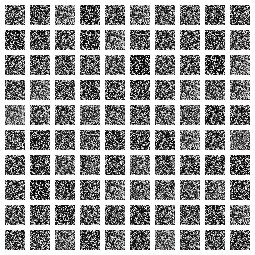
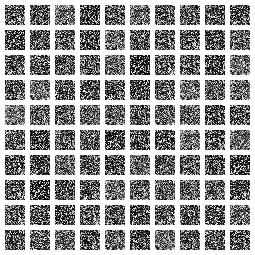
finalised autoencoder experiments

diff --git a/Assignment_2/ae.py b/Assignment_2/ae.py
@@ -175,13 +175,13 @@ def main():
     mnist = input_data.read_data_sets("MNIST_data/", one_hot=True)
     trX, teX = mnist.train.images, mnist.test.images
 
-    config = 2  # use 2 for sparsity constraint with momentum optimizer
+    config = 1  # use 2 for sparsity constraint with momentum optimizer
 
     model = StackedAutoEncoder(dims=[900, 625, 400], config=config)
     model.fit(trX)
     corrupted, clean = model.transform(teX)
-    save_images(np.reshape(clean[:100], [100, 28, 28]), [10, 10], 'clean_%d.png' % (config))
-    save_images(np.reshape(corrupted[:100], [100, 28, 28]), [10, 10], 'corrupted_%d.png' % (config))
+    save_images(np.reshape(clean[:100], [100, 28, 28]), [10, 10], 'clean_%d.png' % (config), spacing=0)
+    save_images(np.reshape(corrupted[:100], [100, 28, 28]), [10, 10], 'corrupted_%d.png' % (config), spacing=0)
     model.classify(mnist)
 
 

diff --git a/Assignment_2/misc/utils.py b/Assignment_2/misc/utils.py
@@ -8,11 +8,11 @@ from scipy.misc import imsave
 
 
 # They following functions save images in a grid
-def save_images(images, size, image_path):
-    return imsave('plots/'+image_path, merge(images, size))
+def save_images(images, size, image_path, spacing=5):
+    return imsave('plots/'+image_path, merge(images, size, spacing=spacing))
 
 
-def merge(images, size, spacing=5):
+def merge(images, size, spacing):
     h, w = images.shape[1], images.shape[2]
     img = np.ones(((h+spacing) * size[0] + spacing, (w+spacing) * size[1] + spacing))
 
